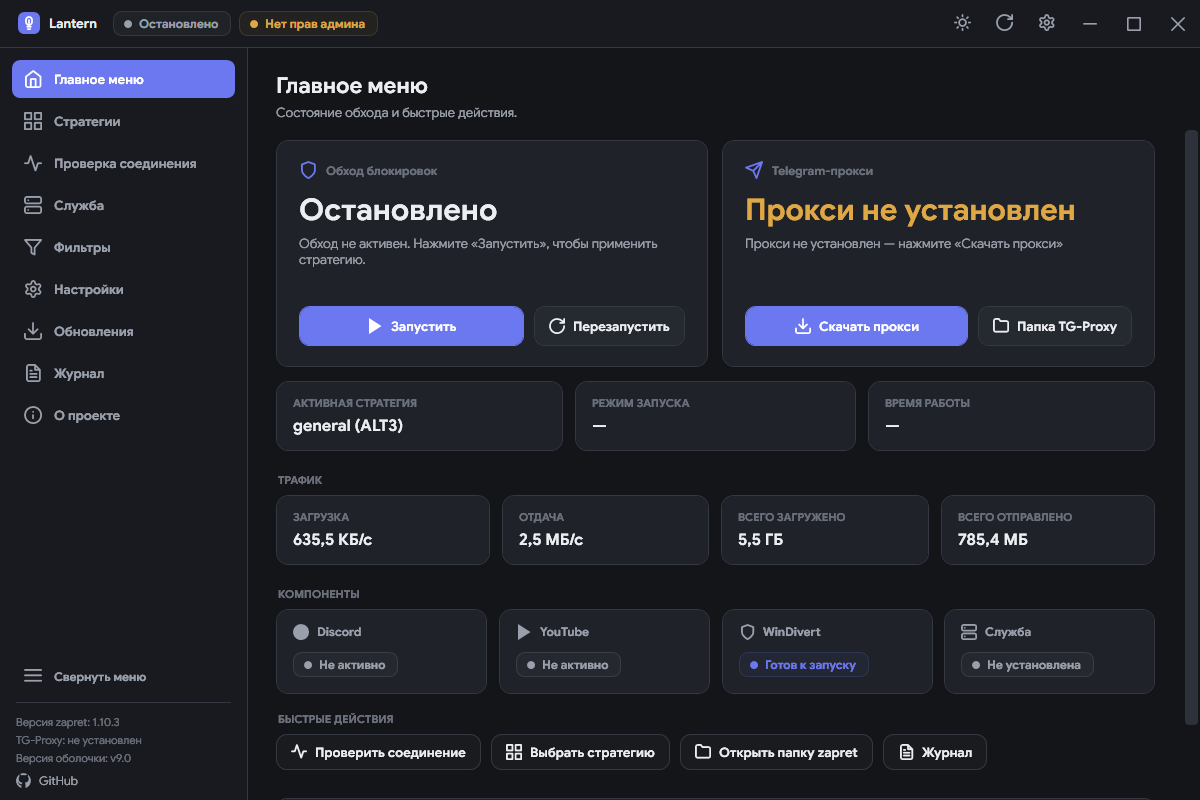
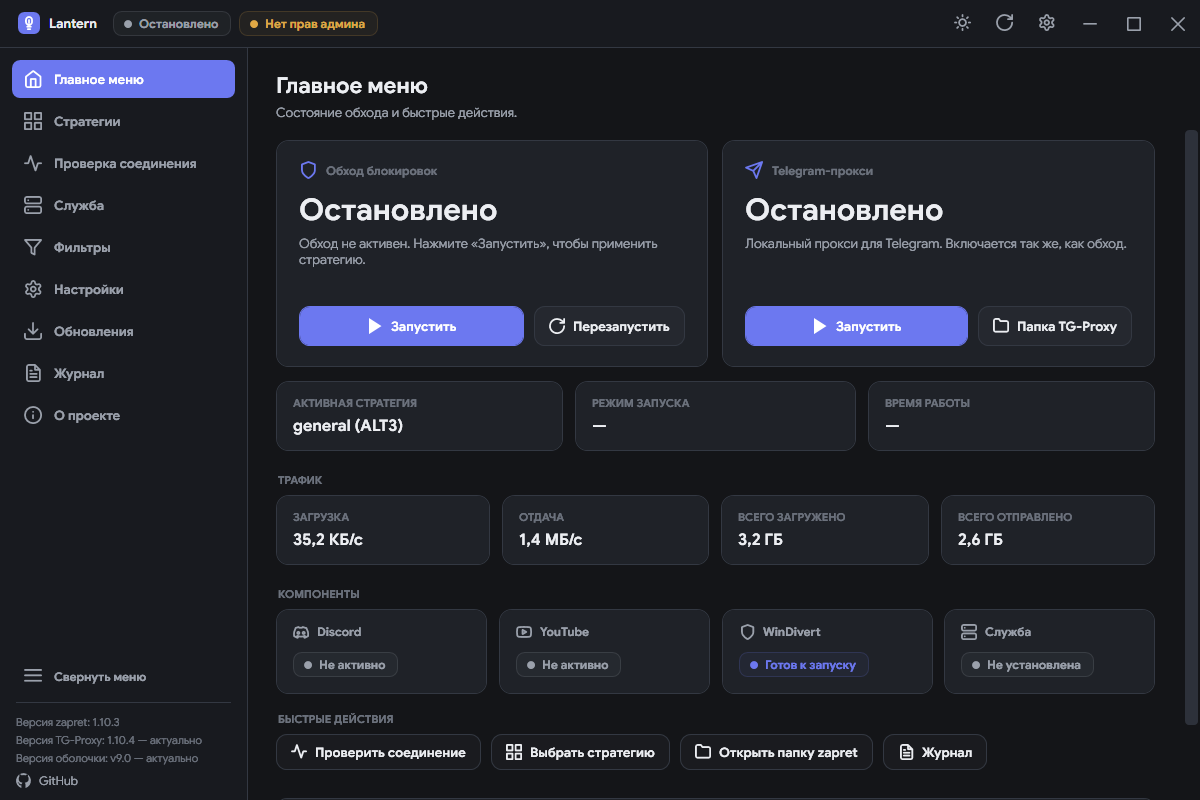
docs: update guide, README, and refresh all screenshots for v9.0

diff --git a/docs/guide.md b/docs/guide.md
@@ -22,13 +22,14 @@
 2. [🏠 Главный экран (Обзор)](#-главный-экран-обзор)
 3. [🎵 Встроенный музыкальный плеер](#-встроенный-музыкальный-плеер)
 4. [🧩 Каталог стратегий и быстрое редактирование](#-каталог-стратегий-и-быстрое-редактирование)
-5. [🔎 Проверка соединения и бенчмарк](#-проверка-соединения-и-бенчмарк)
+5. [🔎 Проверка соединения и диагностика](#-проверка-соединения-и-диагностика)
 6. [⚙ Служба Windows (Автозапуск)](#-служба-windows-автозапуск)
 7. [🎛 Управление фильтрами и списками](#-управление-фильтрами-и-списками)
-8. [⚙ Настройки, Watchdog и профили](#-настройки-watchdog-и-профили)
-9. [📋 Журнал событий и диагностика](#-журнал-событий-и-диагностика)
-10. [ℹ Безопасность и проверка целостности](#ℹ-безопасность-и-проверка-целостности)
-11. [❓ Решение частых проблем (FAQ)](#-решение-частых-проблем-faq)
+8. [🔄 Центр обновлений](#-центр-обновлений)
+9. [⚙ Настройки, оптимизация и профили](#-настройки-оптимизация-и-профили)
+10. [📋 Журнал событий](#-журнал-событий)
+11. [ℹ Безопасность и проверка целостности](#ℹ-безопасность-и-проверка-целостности)
+12. [❓ Решение частых проблем (FAQ)](#-решение-частых-проблем-faq)
 
 ---
 
@@ -120,17 +121,17 @@
 
 ---
 
-## 🔎 Проверка соединения и бенчмарк
+## 🔎 Проверка соединения и диагностика
 
-Раздел **Проверка соединения** предназначен для всестороннего тестирования доступности заблокированных ресурсов и сравнения эффективности разных стратегий.
+Раздел **Проверка соединения** предназначен для всестороннего тестирования доступности заблокированных ресурсов, выявления проблем сетевого окружения и сравнения эффективности разных стратегий.
 
 <div align="center">
 
-<img src="screens/check.png" width="900" alt="Раздел Проверка соединения">
+<img src="screens/check.png" width="900" alt="Раздел Проверка соединения и диагностика">
 
 </div>
 
-### Вкладки проверки:
+### Вкладки раздела:
 
 | Вкладка | Назначение |
 | :--- | :--- |
@@ -138,6 +139,17 @@
 | 🌐 **Популярные сервисы** | Быстрый тест Discord (Voice, Gateway, Media), YouTube (Video CDN, Images) и Cloudflare. |
 | 🎮 **Игровые серверы** | Проверка серверов популярных онлайн-игр (Steam, Riot, EA, Blizzard). |
 | ⚡ **Тест стратегий (Бенчмарк)** | Автоматический последовательный прогон всех доступных BAT-стратегий с замером задержки и процента успешности. |
+| 🩺 **Диагностика системы** | Полная проверка сетевого стека Windows, автоопределение конфликтов и инструменты быстрого ремонта в 1 клик. |
+
+### Инструменты вкладки «Диагностика»:
+1. **🧪 Тест DPI Freeze**:
+   - Отправка пробного пакета 64 КБ для выявления скрытых разрывов ТСПУ на 16–20 пакетах.
+2. **🗑 Очистка кэша Discord**:
+   - Удаление временных файлов кэша (`Cache`, `Code Cache`, `GPUCache`) для всех редакций Discord (Stable, PTB, Canary, Development) с подсчётом удалённых файлов.
+3. **🔄 Сброс WinDivert**:
+   - Безопасная выгрузка и удаление зависших драйверов `WinDivert` и `WinDivert14` из реестра и диспетчера служб в 1 клик.
+4. **🔍 Глубокий аудит окружения**:
+   - Автоматическая проверка активности службы BFE, системного прокси (с кнопкой автоотключения), TCP Timestamps (с кнопкой автовключения), конфликтов с AdGuard, VPN-сервисами, Killer Network, SmartByte, а также проверка на наличие кириллических символов в путях и нахождение в каталоге OneDrive.
 
 > [!NOTE]
 > **Как работает бенчмарк стратегий:**
@@ -161,7 +173,9 @@
    - Нажмите кнопку **«Установить службу»**.
    - Lantern создаст службу с именем `zapret`, настроит автозапуск (`start= auto`) и пропишет выбранную стратегию в системный реестр (`HKLM\System\CurrentControlSet\Services\zapret`).
    - Для удаления службы достаточно нажать кнопку **«Удалить»**.
-2. **Единое управление автозапуском**:
+2. **Детект сторонней службы zapret**:
+   - Если в системе уже установлена служба `zapret` из другой папки или сторонней сборки, Lantern автоматически обнаружит её и выведет предупреждающий баннер с кнопками **«Взять под управление»** (мгновенно переключает службу на Lantern) или **«Удалить»**.
+3. **Единое управление автозапуском**:
    - **Автозапуск службы при старте системы** — служба `winws.exe` стартует как фоновый сервис Windows без необходимости открывать окно программы.
    - **Автозапуск приложения Lantern в трей** — добавление задачи в планировщик Windows (`LanternAutostart` с наивысшими правами) для автоматического запуска Lantern в трей при входе в систему.
 
@@ -181,6 +195,7 @@
 - `Выключен` — обрабатывается только стандартный веб-трафик (порты 80, 443).
 - `TCP + UDP` — перехват и обход на динамических игровых портах `1024-65535`.
 - `Только TCP` / `Только UDP` — выборочная фильтрация игровых протоколов.
+- `Пользовательские порты` — возможность вручную задать конкретные диапазоны игровых портов, чтобы исключить вмешательство в голосовые чаты и сетевую синхронизацию игр.
 
 ### 2. IPSet-фильтр
 - `Загруженный список` — фильтрация применяется только к адресам из файла `lists/ipset-all.txt`.
@@ -193,6 +208,26 @@
 
 ### 4. Визуальный редактор списков
 - Позволяет просматривать, добавлять и удалять домены прямо из интерфейса для файлов `list-general-user.txt`, `list-exclude-user.txt` и `ipset-exclude-user.txt`.
+
+---
+
+## 🔄 Центр обновлений
+
+Отдельный специализированный раздел **Обновления** обеспечивает централизованное обновление всех компонентов системы:
+
+<div align="center">
+
+<img src="screens/updates.png" width="900" alt="Раздел Центр обновлений">
+
+</div>
+
+### Возможности:
+- **Раздельные карточки компонентов**:
+  - `Движок zapret (Flowseal)` — ядро DPI-фильтрации и актуальные наборы десинхронизационных BAT-стратегий.
+  - `Telegram-прокси (TG-WS-Proxy)` — локальный MTProto-прокси для Telegram Desktop.
+  - `Оболочка Lantern` — само графическое приложение.
+- **Индикация версий**: отображение локальной версии, доступного релиза на GitHub и статусных меток актуальности.
+- **Прогресс загрузки в реальном времени**: во время скачивания отображаются текущая скорость (**МБ/с**), точный размер скачанного файла (**X / Y МБ**) и анимированная полоса выполнения.
 
 ---
 
@@ -218,8 +253,8 @@
   - Полная поддержка режима «Уменьшение движения» (`reduce_motion`): анимации мгновенно отключаются при активации соответствующей системной опции.
 - **🛡 Защитник Windows (Windows Defender)**:
   - Добавление папки приложения в исключения Защитника Windows в 1 клик для предотвращения блокировки драйвера `WinDivert64.sys`.
-- **📦 Менеджер обновлений**:
-  - В один клик проверяет свежие версии `zapret`, `tg-ws-proxy` и `Lantern` через GitHub Releases API.
+- **🔄 Сброс до заводских настроек (Factory Reset)**:
+  - Безопасная очистка локальной конфигурации, остановка обхода и возврат параметров к состоянию по умолчанию с диалогом подтверждения.
 - **📁 Профили настроек**:
   - Сохраняйте рабочие комбинации (Стратегия + Фильтры + IPSet + DoH) в именованные профили для мгновенного переключения между играми, работой и просмотром видео.
 - **🍗 Настройки темы «Питер Гриффин»**:
@@ -227,7 +262,7 @@
 
 ---
 
-## 📋 Журнал событий и диагностика
+## 📋 Журнал событий
 
 Раздел **Лог** фиксирует все происходящие события в реальном времени:
 

diff --git a/README.md b/README.md
@@ -72,10 +72,14 @@
 | :--- | :--- |
 | ⚡ **Управление в один клик** | Мгновенный запуск, остановка и перезапуск `winws.exe` с любой из 20+ готовых стратегий. |
 | 🌐 **Умная рекомендация по ISP** | Автоопределение провайдера (Ростелеком, МТС, Билайн, МегаФон, Дом.ру, Теле2 и др.) с live-тестом за 1.5 сек и предложением лучшей стратегии под ваш ТСПУ. |
+| 🩺 **Диагностика и ремонт системы** | Тест DPI Freeze (разрыв пакетов 16–20), очистка кэша всех редакций Discord в 1 клик, сброс зависшего драйвера WinDivert и аудит 10+ параметров Windows (BFE, системный прокси, TCP timestamps, AdGuard, VPN-службы, OneDrive). |
+| 🔄 **Новый Центр обновлений** | Отдельный раздел для компонентов zapret, TG-Proxy и Lantern: отображение скорости загрузки (МБ/с), размера скачанного объёма и статусов версий. |
+| 🛡 **Детект сторонних служб zapret** | Автоматическое распознавание служб zapret из других каталогов с кнопками бесшовного перехвата управления или корректного удаления. |
+| 🎮 **Кастомные порты GameFilter** | Тонкая настройка диапазонов портов игрового трафика для стабильной работы онлайн-игр и голосовых каналов. |
 | 🚀 **Сверхбыстрый бенчмарк** | Параллельное тестирование всех 20+ стратегий за ~40 секунд вместо 28 минут без ложных сбоев и зависаний. |
 | 🎧 **Надёжная проверка сервисов** | Честная проверка Discord, YouTube и хостов через браузерный стек `HttpWebRequest` с прозрачной поддержкой VPN и фолбэком на `curl -k`. |
 | 🛡 **Защита от Windows Defender** | Встроенное добавление папки программы в исключения Защитника Windows в 1 клик для предотвращения блокировки драйвера WinDivert. |
-| 🎨 **Векторные Lucide Icons & Анимации** | Чёткие официальные SVG-иконки Lucide и живые микро-анимации (поворот шестерёнки на 90°, оборот на 360°, кардио-пульс, покачивание). |
+| 🎨 **Векторные SVG-иконки брендов и контурный дизайн** | Официальные логотипы YouTube и Discord, аккуратные outline-кнопки и живые микро-анимации. |
 | 🎵 **Встроенный музыкальный плеер** | Мини-плеер в боковой панели с поддержкой аудиоформатов (.mp3, .flac, .wav, .m4a и др.), чтением обложек тегов, плавным кроссфейдом и регулятором громкости. |
 | 🚀 **Плавность 144Hz / 240Hz** | Экстремальная оптимизация UI: Win32 ServiceController RPC (0.02мс), VSync-интерполяция прокрутки и in-place обновление интерфейса. |
 | 🛡 **Служба Windows** | Бесшовная установка `winws.exe` в качестве системной службы с автозапуском до входа пользователя. |
@@ -84,7 +88,7 @@
 | 🎛 **Гибкие фильтры** | Быстрое переключение игрового фильтра (TCP / UDP), списков IPSet и системного DNS-over-HTTPS (DoH). |
 | 📋 **Журнал реального времени** | Подробный цветной лог событий с индикацией нормальной работы, предупреждений и сбоев. |
 | 🎨 **6 динамических тем** | Тёмная, AMOLED, Светлая, «Северное сияние», «Закат» (Tokyo Night) и «Питер Гриффин» — мгновенное переключение без перезапуска. |
-| 🔄 **Умное автообновление** | Синхронизированная загрузка свежих релизов zapret, TG Proxy и Lantern с фиксацией локальной версии и плавным прогресс-баром. |
+| ⚙ **Сброс настроек (Factory Reset)** | Полный сброс параметров приложения и очистка конфигураций до заводского состояния в 1 клик. |
 
 ---
 
